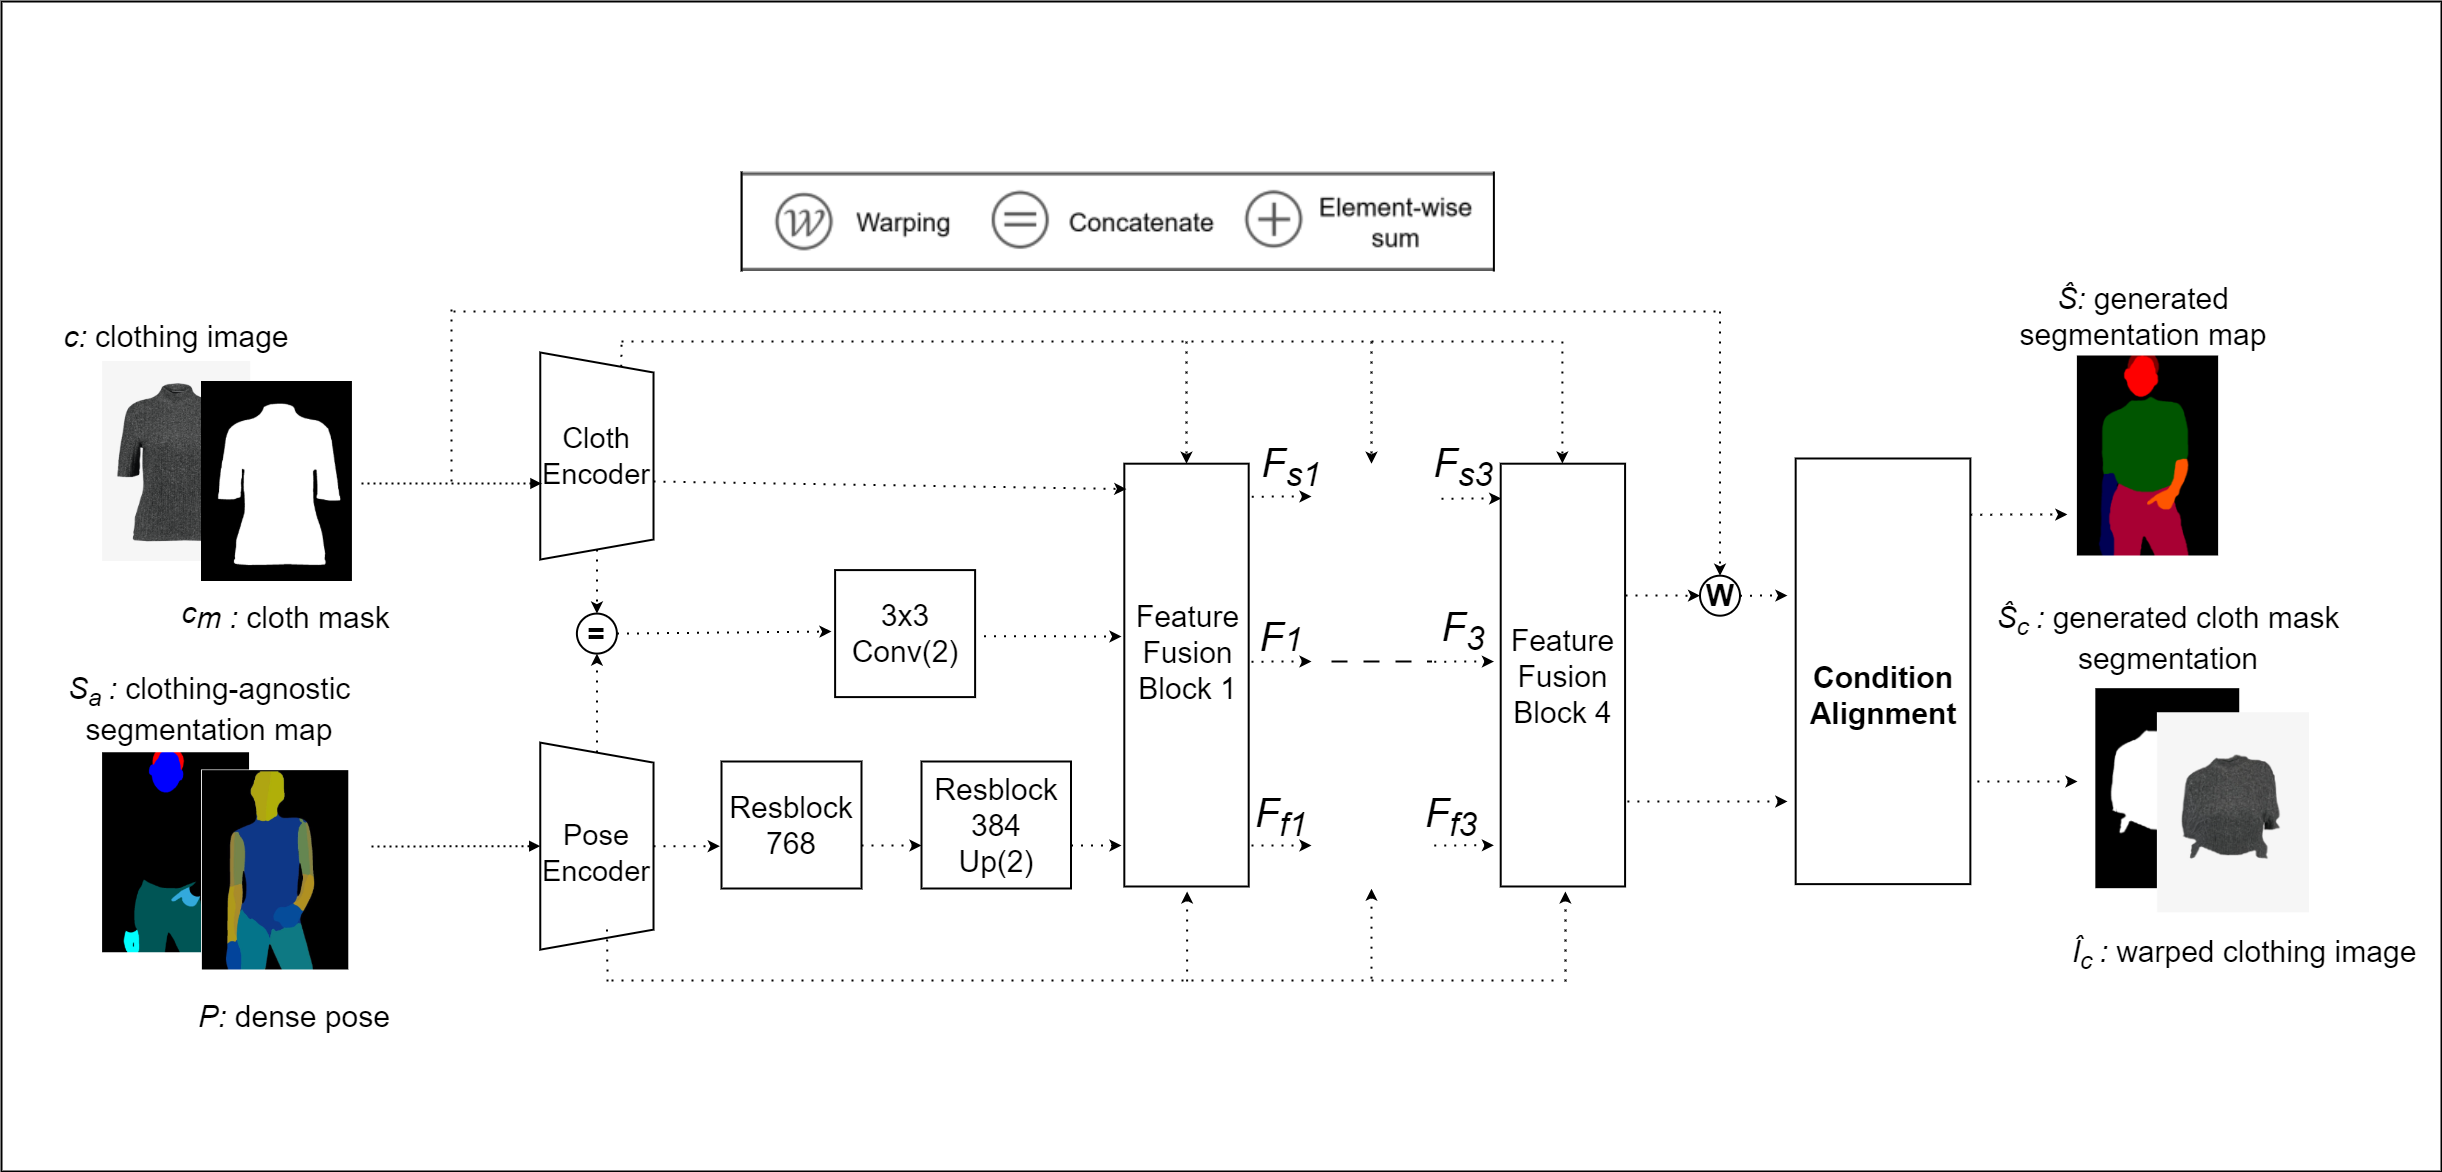
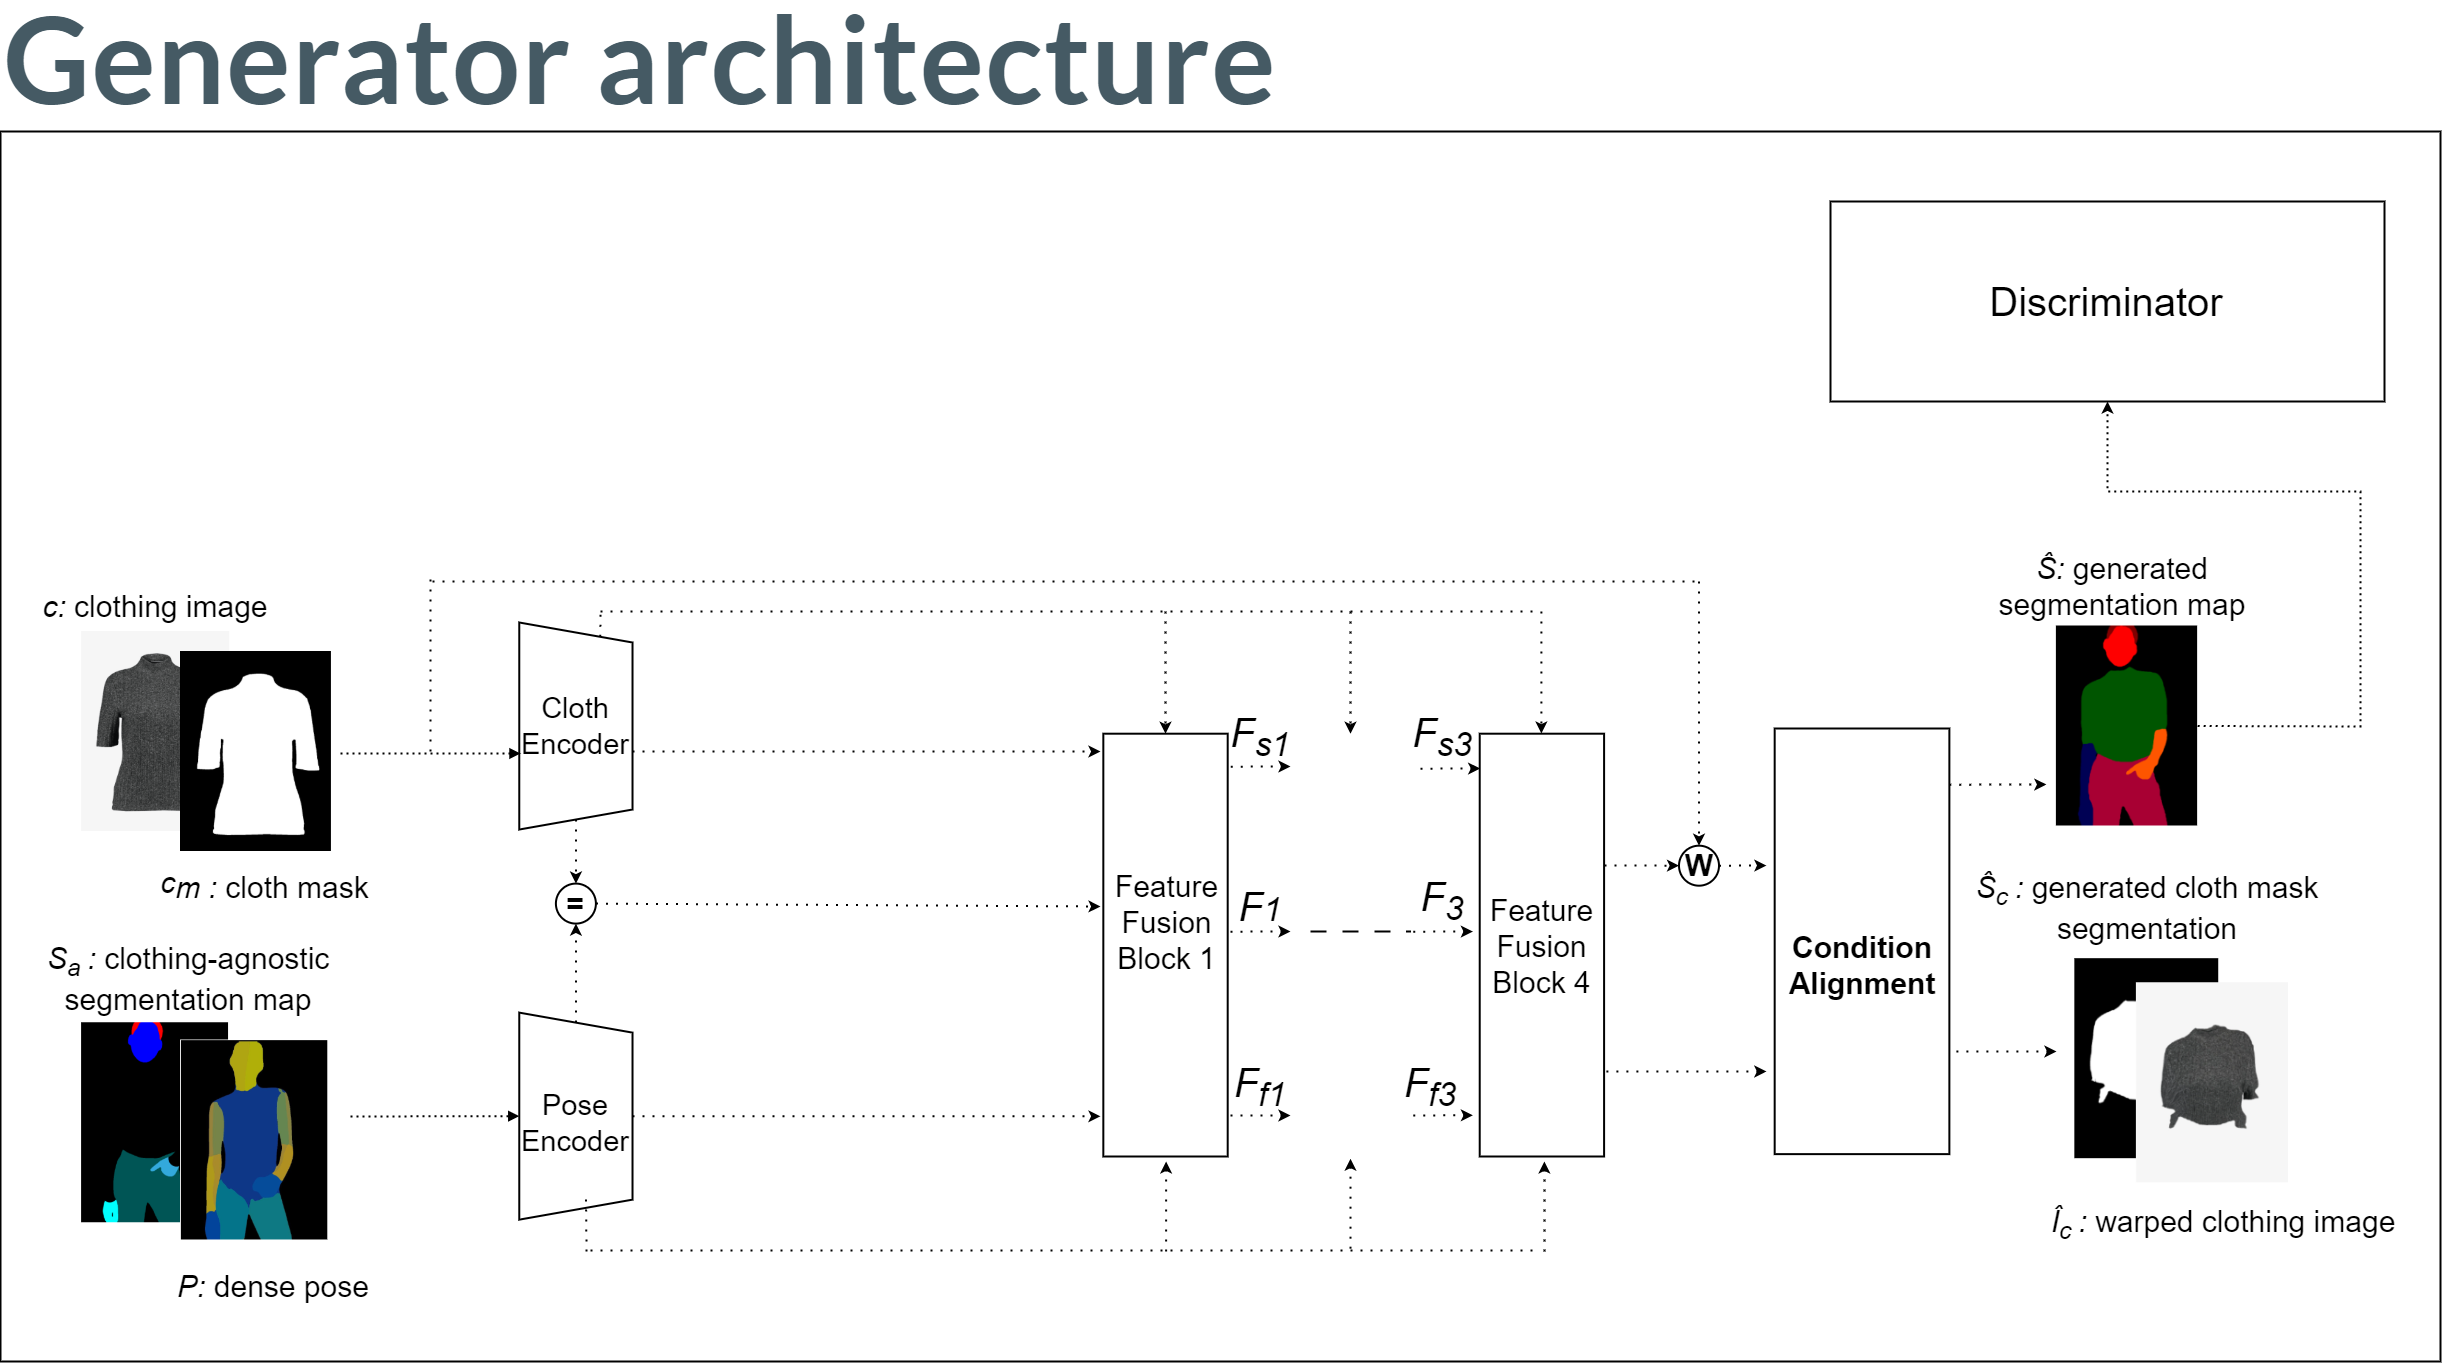
Commit to new branch

diff --git a/markdownCode/newPresentation.md b/markdownCode/newPresentation.md
@@ -210,149 +210,8 @@ math: mathjax
 
 ---
 
-## Generator architecture
-![centernotop](Generator.png)
+![w:1100 centernotop](Generator.png)
 
-<!-- <div style="color: white; font-size: 30px; margin-top: 150px; margin-left:700px ">
-<b>Generator Architecture</b>
-
-- Two encoders  
-- Four feature fusion blocks
-- Condition Aligning stage --> -->
-
-<!-- </div> -->
----
-
-## Encoder
-
-![w:1050 centernotop](Encoder.png)
-
----
-
-### Feature Fusion Blocks
-
-<!-- - Has two routes: the flow pathway and the seg pathway.
-- Takes two inputs, $F_{f_{i-1}}$ and $F_{s_{i-1}}$.
-- The two pathways communicate with each other to determine $F_{f_i}$ and $F_{s_i}$ simultaneously. -->
-
-
-![w:1000 centernotop](Feature_Fusion_Block.png)
-
-
----
-
-### Condition Aligning
-Let:
-- Resulting segmentation map $S_{raw}$ after passing Feature Fusion Block
-- The appearance flow map $F_{f_4}$, cloth mask $c_m$, The warp function $W$
-
-- $i$,$j$, and $k$ are indices across the spatial and channel dimensions.
-- Generated cloth mask segmentation $\hat{S}_c$ and warped clothing image $\hat{I}_c$ .
----
-
-### Condition Aligning
-
-- Aligns segmentation map $\hat{S}$:
-
-$$\hat{S}_{logit} = \begin{cases} 
-\hat{S}_{raw}^{k,i,j} & \text{if } k \neq C \\
-\hat{S}_{raw}^{k,i,j} \cdot W(c_m,F_{f_4}) & \text{if } k = C  
-\end{cases}$$
-
-$$\hat{S}= \sigma (\hat{S}_{logit})$$ 
-
-- Remove occlusion and get final $\hat{S}_c$ and $\hat{I}_c$.
----
-## Discriminator architecture
-![w:1100 centernotop](Discriminator.png)
-<!-- ![h:500 farRight](SubDiscriminator.png) -->
-
----
-
-### Training Try-On Condition module
-
-<div style="display:flex;flex-direction:row;">
-<div style="display:flex;gap:0px;flex-direction:column;align-items:left">
-
-<span style="font-size:30px;">Let :</span>
-
-- <span style="font-size:25px;">D is the discriminator network, G is the generator network </span>
-- <span style="font-size:25px;">Ground truth seg map $S$, generated seg map $\hat{S}$ </span>
-- <span style="font-size:25px;">Synthetic data sample $z$ </span>
-
-The loss function will entail a type of loss characteristic of GANs.
-
-###### $\underset{G}{min} \; \underset{D}{max} V(D,G)=E_{S\sim p_{data}(S)} log\left(D(S)\right) + E_{z\sim p_{z}(z)} \left(1-\left(D\left(\hat{S}\right)\right)\right) \tag{4.3}$
-</div>
-</div>
-
----
-### Training Try-On Condition module
-<div style="display:flex;flex-direction:row;">
-<div style="display:flex;gap:0px;flex-direction:column;align-items:left">
-
-- <div style="font-size:30px;height:10px">Cross-entropy loss</div>
-### <div style="font-size:25px;">$\mathcal{L}_{CE} = \sum_{i=1}^H\sum_{j=1}^W\sum_{k=1}^CS_{ijk}log(\hat{S}_{ijk})$</div>
-
-- <div style="font-size:30px;;height:10px">L1 loss</div>
-### <div style="font-size:25px;"> $\mathcal{L}_{L1} =  \sum_{i=0}^3 w_i  .\left| \left|W(c_m,F_{f_i})-S_c \right| \right|_1 +||\hat{S_c}- S_c||_1 \tag{4.5}$</div>
-
-- <div style="font-size:30px;;height:10px">VGG loss</div>
-### <div style="font-size:25px;"> $\mathcal{L}_{VGG} = \sum_{i=0}^3 w_i  . \phi(W(c,F_{f_i}),I_c) + \phi(\hat{I_c},I_c) \tag{4.6}$</div>
-</div>
-<div style="display:flex;flex-direction:column;justify-content:center;align-items:right">
-
-- <span style="font-size:25px;">Ground truth map $S$, generated seg map $\hat{S}$</span>
-- <span style="font-size:25px;">Predicted cloth segmentation mask $\hat{S_c}$, ground truth $S_c$</span>
-- <span style="font-size:25px;">Flow pathway $F_{f_i}$ </span>
-- <span style="font-size:25px;">Predicted warped clothing image $\hat{I}_c$</span>
-- <span style="font-size:25px;">Ground truth warped clothing image $I_c$ </span>
-</div>
-</div>
-
----
-
-### Training Try-On Condition module
-
-<div style="display:flex;flex-direction:row;">
-<div style="display:flex;gap:0px;flex-direction:column;align-items:left">
-
-- <div style="font-size:30px;height:10px">Loss TV</div>
-### <div style="font-size:25px;">$\mathcal{L}_{TV}= ||\nabla F_{f4}|| \tag{4.7}$</div>
-
-- <div style="font-size:30px;;height:10px">Least square GAN loss</div>
-### <div style="font-size:25px;">$\mathcal{L}_{cGAN}=\underset{G}{min}V_{LS}(G)= \frac{1}{2}E_{z\sim p_{z}(z)} \left[\left(D\left(G(z)\right)-1\right)^2\right] \tag{4.9}$</div>
-</div>
-<div style="display:flex;flex-direction:column;justify-content:center;align-items:right">
-
-- <span style="font-size:25px;">$F_{f4}$ is the $4^{th}$ flow pathway   </span>
-- <span style="font-size:25px;">$\nabla F_{f4}$ calculates the gradient of the flow pathway </span>
-- <span style="font-size:25px;">Cloth mask $c_m$, original cloth image $c$ </span>
-- <span style="font-size:25px;">D is the discriminator network, G is the generator network </span>
-- <span style="font-size:25px;">Synthetic data sample $z$  </span>
-</div>
-</div>
-
-
----
-
-# Training Try-On Condition module
-<div style="display:flex;flex-direction:row;">
-<div style="display:flex;gap:0px;flex-direction:column;align-items:left">
-
-- <div style="font-size:30px;height:10px">Generator loss:</div>
-### <div style="font-size:25px;">$\mathcal{L}_{TOCG} = \lambda_{CE} \mathcal{L}_{CE} + \mathcal{L}_{cGAN} + \lambda_{L1}\mathcal{L}_{L1} + \mathcal{L}_{VGG} + \lambda_{TV}\mathcal{L}_{TV}$</div>
-
-- <div style="font-size:30px;;height:10px">Discriminator loss:</div>
-### <div style="font-size:25px;">$\mathcal{L}_{D}^{LS} = \frac{1}{2}\mathbb{E}_{S\sim p_{data}(S)}[(D(S)-1)^2] + \frac{1}{2}\mathbb{E}_{z\sim p_z(z)}[D(G(z))^2]$</div>
-</div>
-<div style="display:flex;flex-direction:column;justify-content:center;align-items:right">
-
-- <span style="font-size:25px;">Generator loss is the combination of above loss </span>
-- <span style="font-size:25px;">D is the discriminator network, G is the generator network  </span>
-- <span style="font-size:25px;">Synthetic data sample $z$ </span>
-</div>
-</div>
 
 
 ---
